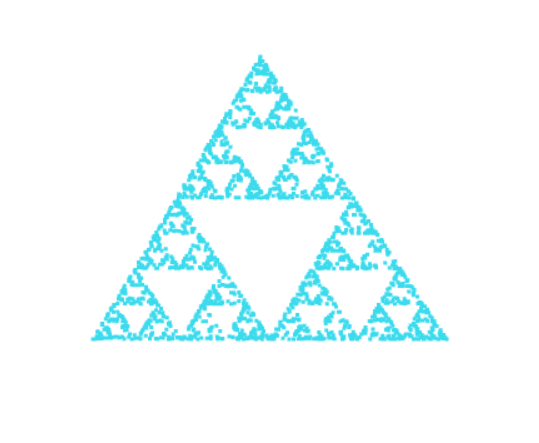
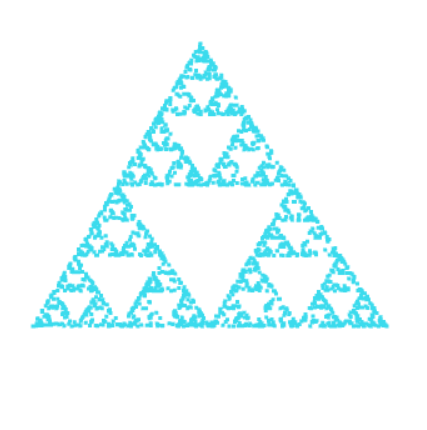
Made images the same aspect ratio

Changed region(s): [[0.0609, 0.0907, 0.9133, 0.786]]

diff --git a/css/main.css b/css/main.css
@@ -193,14 +193,14 @@ html, body {
 .squareImage {
   margin-top: 1em;
   float: right;
-  width: 40%;
+  /* width: 40%; */
   max-height: 85.1%;
 }
 
 .triangleImage {
     margin-top: 2em;
     float: left;
-    width: 32%;
+    /* width: 32%; */
 }
 
 /* isn't used at the moment, need to fix */
